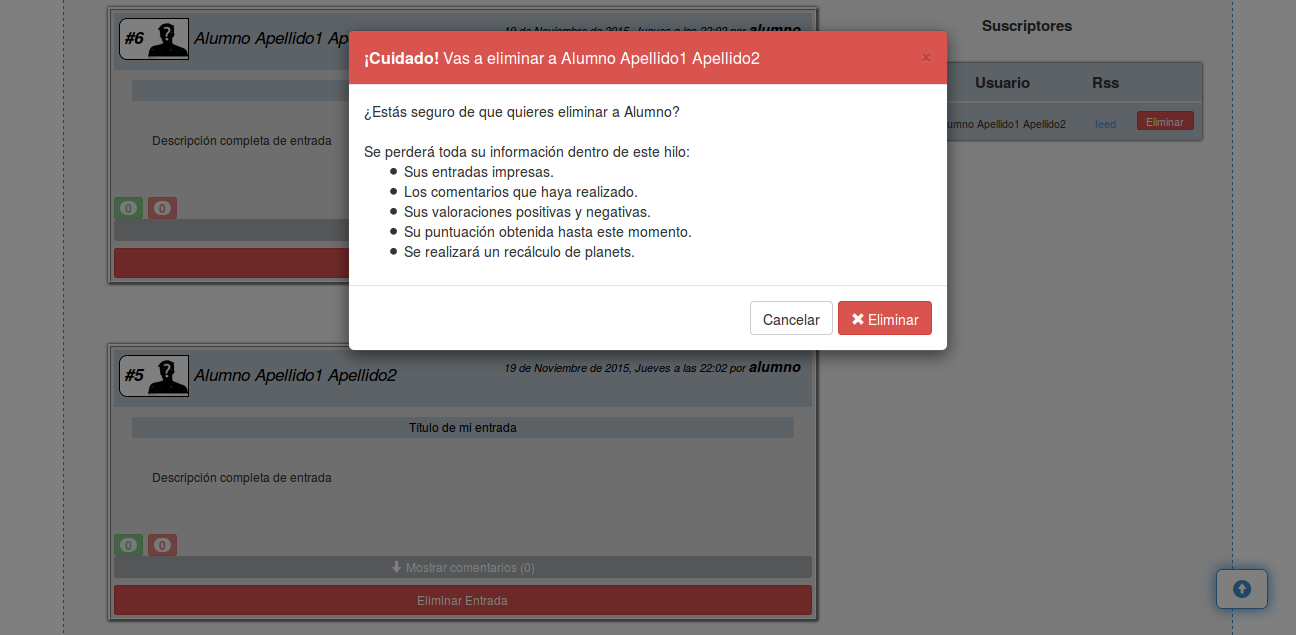
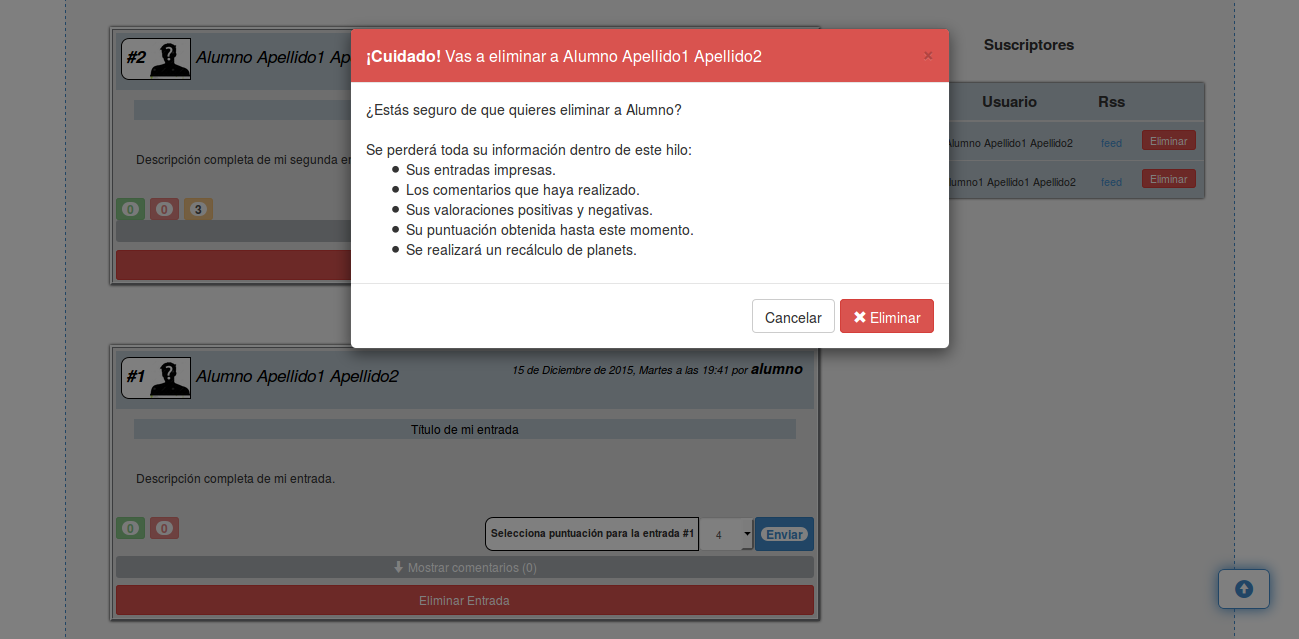
manual de usuario y bibliografía

diff --git a/memoria.tex b/memoria.tex
@@ -625,9 +625,10 @@ Cada modelo se convierte en una tabla en la base de datos. Los modelos definidos
   \textit{UrlBlog} guarda la url del blog de usuario, \textit{TotalUp} guarda el n\'umero total de valoraciones positivas que recopila la entrada, 
   \textit{TotalDown} guarda el n\'umero total de valoraciones negativas que recopila la entrada, \textit{Total} guarda la puntuaci\'on que lleva hasta el
   momento la entrada teniendo en cuenta valoraciones positivas y valoraciones negativas \rule[1mm]{4mm}{0.1mm}esta puntuaci\'on se usa para imprimir en 
-  la secci\'on de entradas m\'as valoradas\rule[1mm]{4mm}{0.1mm} y \textit{TotalComentarios} cuenta el total de comentarios que contiene la entrada 
-  \rule[1mm]{4mm}{0.1mm}este entero se mostrar\'a entre par\'entesis al lado de ''Mostrar comentarios''\rule[1mm]{4mm}{0.1mm}.
-  \item {\bfseries Comentario}: El modelo \texttt{Comentario} simula un comentario correspondiente a una entrada. Sus atributos son: \textit{Descripcion}
+  la secci\'on de entradas m\'as valoradas\rule[1mm]{4mm}{0.1mm}, \textit{TotalComentarios} cuenta el total de comentarios que contiene la entrada 
+  \rule[1mm]{4mm}{0.1mm}este entero se mostrar\'a entre par\'entesis al lado de ''Mostrar comentarios''\rule[1mm]{4mm}{0.1mm} y \textit{PuntuacionTutor}
+  guarda la puntuaci\'on de la entrada recibida por el tutor.
+  \item {\bfseries Comentario}: El modelo \texttt{Comentario} simula un comentario correspondiente a una entrada. Sus atributos son: \textit{Descripci\'on}
   guarda el contenido del comentario, \textit{Fecha} se queda con la fecha en la que fue enviado dicho comentario y \textit{Username} salva el nick del 
   usuario que realiz\'o el comentario.
   \item {\bfseries Up}: El modelo \texttt{Up} representa una valoraci\'on positiva de una entrada determinada.
@@ -854,7 +855,7 @@ tras una previa petici\'on GET del cliente mediante el correspondiente recurso \
 A esta p\'agina solamente puede acceder un usuario que se haya registrado previamente en la aplicaci\'on, y adem\'as lo haya hecho como profesor.
 
 En la parte superior de la cabecera se encuentra la barra de navegaci\'on con dos enlaces. \texttt{Mis hilos} hace referencia a la misma url de la 
-p\'agina servida, por lo que la recargar\'a, y \texttt{Desconectar} para el cierre de la sesi\'on (Secci\'on~\ref{sec:cierresesion}). En la parte inferior 
+p\'agina servida, por lo que la recargar\'a, \texttt{Resetear contrase\~na} hace referencia a la url de cambio de contrase\~na y \texttt{Desconectar} para el cierre de la sesi\'on (Secci\'on~\ref{sec:cierresesion}). En la parte inferior 
 de la cabecera se muestra una foto de perfil y un mensaje que informa a quien pertenece el espacio de la sesi\'on.
 
 Dentro del contenedor hay que destacar tres partes importantes:
@@ -880,6 +881,32 @@ Dentro del contenedor hay que destacar tres partes importantes:
 \end{figure}
 
 
+\subsubsection{Resetear contrase\~na} 
+\label{sec:resetpass}
+El documento HTML mostrado en la figura~\ref{fig:resetpass} es la p\'agina de modificaci\'on de contrase\~na. La p\'agina es servida 
+tras una previa petici\'on GET del cliente mediante el correspondiente recurso \footnote{Url correspondiente a la p\'agina de resetear contrase\~na: 
+\texttt{/planetablogs/tutores/resetear\_password/}}. La vista asociada a ese recurso es \texttt{resetear\_password}, la cual devuelve la plantilla 
+\texttt{resetear\_password.html} que crea el documento HTML de la respuesta.
+
+A esta p\'agina solamente puede acceder un usuario que se haya registrado previamente en la aplicaci\'on, y adem\'as lo haya hecho como profesor. 
+
+En la parte superior de la cabecera se encuentra la barra de navegaci\'on con tres enlaces. \texttt{Resetear contrase\~na} hace referencia a la misma 
+url de la p\'agina servida, por lo que la recargar\'a, \texttt{Mis hilos} hace referencia a la url del perfil del tutor y \texttt{Desconectar} para 
+el cierre de la sesi\'on (Secci\'on~\ref{sec:cierresesion}).
+
+En el cuerpo del documento existe un formulario en el que el alumno que haya perdido u olvidado su contrase\~na, puede introducir su nick de usuario y una
+nueva contrase\~na que sustituir\'a a la anterior.
+
+\begin{figure}
+  \centering
+  \includegraphics[width=17cm, keepaspectratio]{imagenes/ResetPass}
+  \caption{\textit{Modificar una contrase\~na desde el perfil de un tutor.}}
+  \label{fig:resetpass}
+\end{figure}
+
+
+
+
 \subsubsection{Hilos} 
 \label{sec:hilos}
 En la figura~\ref{fig:hilos} se muestran dos documentos HTML que recogen el contenido de un hilo. En la figura~\ref{fig:hilos}(a) se visualiza el interior
@@ -895,8 +922,10 @@ todas las plantillas con la siguiente url: {\scriptsize \texttt{/planetablogs/al
   \item {\bfseries \textit{Asignatura}}: Enlace que hace referencia a la misma url de la p\'agina servida, por lo que la recargar\'a (en este caso, 
   la asignatura se llama \texttt{DAT}).
   \item {\bfseries \textit{Buscar}}: Es un enlace que hace referencia a la url de b\'usqueda (Secci\'on~\ref{sec:buscar}).
-  \item {\bfseries \textit{Puntuaciones}}: Es una lista desplegable compuesta por dos enlaces. \textit{Ranking} hace referencia a la url donde se muestran 
-  todas las puntuaciones de los usuarios de un determinado hilo e \textit{Informaci\'on} hace referencia a la url que recoge las bases de esas puntuaciones.
+  \item {\bfseries \textit{Puntuaciones}}: Es una lista desplegable compuesta por tres enlaces. \textit{Ranking} hace referencia a la url donde se muestran 
+  todas las puntuaciones de los usuarios de un determinado hilo. \textit{Estad\'isticas} hace referencia a la url donde se muestran las estad\'isticas de 
+  cada usuario de un determinado hilo, tanto individuales como generales. \textit{Informaci\'on} hace referencia a la url que recoge las bases de esas 
+  puntuaciones.
   \item {\bfseries \textit{Desconectar}}: Enlace que hace referencia a la url servida para el cierre de la sesi\'on (Secci\'on~\ref{sec:cierresesion}).
 \end{itemize}
 Tambi\'en se expone, debajo de la barra de navegaci\'on, una imagen correspondiente al logo de la aplicaci\'on con su t\'itulo. Y en la parte derecha un 
@@ -928,9 +957,11 @@ usuarios suscritos a este hilo. Cabe destacar que la lista de entradas dentro de
 p\'agina dentro del hilo mostrar\'a en su contenedor cinco entradas como m\'aximo. El orden de la lista de entradas est\'a colocado de menor a mayor por 
 antiguedad, siendo las primeras entradas visibles las m\'as recientes.
 
-La respuesta de la vista tambi\'en contiene tres estructuras \textit{JSON}, todos los usuarios del modelo \texttt{User} (\textit{json\_usuarios}), 
-todas las valoraciones del modelo \texttt{Valoracion} pertenecientes a ese hilo (\textit{json\_valoracion}) y todos los alumnos del modelo \texttt{Alumno} 
-(\textit{json\_alumnos}).
+La respuesta de la vista tambi\'en contiene cinco estructuras \textit{JSON}, todos los usuarios del modelo \texttt{User} (\textit{json\_usuarios}), 
+todas las valoraciones del modelo \texttt{Valoracion} pertenecientes a ese hilo (\textit{json\_valoracion}), todos los alumnos del modelo \texttt{Alumno} 
+(\textit{json\_alumnos}), todas las asignaturas del modelo \texttt{Asignatura} (\textit{json\_asignaturas}), todos los profesores del modelo \texttt{Profesor} 
+(\textit{json\_profesores}).
+
 \begin{figure}
   \centering
   \includegraphics[width=17cm, keepaspectratio]{imagenes/HiloAlumnoEntradas}
@@ -956,13 +987,14 @@ usuarios suscritos a este hilo. Cabe destacar que la lista de entradas dentro de
 p\'agina dentro del hilo mostrar\'a en su contenedor cinco entradas como m\'aximo. El orden de la lista de entradas est\'a colocado de menor a mayor por 
 antiguedad, siendo las primeras entradas visibles las m\'as recientes.
 
-La respuesta de la vista tambi\'en contiene tres estructuras \textit{JSON}, todos los usuarios del modelo \texttt{User} (\textit{json\_usuarios}), 
-todas las valoraciones del modelo \texttt{Valoracion} pertenecientes a ese hilo (\textit{json\_valoracion}) y todos los alumnos del modelo \texttt{Alumno} 
-(\textit{json\_alumnos}).
+La respuesta de la vista tambi\'en contiene cinco estructuras \textit{JSON}, todos los usuarios del modelo \texttt{User} (\textit{json\_usuarios}), 
+todas las valoraciones del modelo \texttt{Valoracion} pertenecientes a ese hilo (\textit{json\_valoracion}), todos los alumnos del modelo \texttt{Alumno} 
+(\textit{json\_alumnos}), todas las asignaturas del modelo \texttt{Asignatura} (\textit{json\_asignaturas}), todos los profesores del modelo \texttt{Profesor} 
+(\textit{json\_profesores}).
 
 La principal diferencia con las p\'aginas de los hilos mostrados por parte de los alumnos, es que los tutores tienen el permiso de eliminar entradas de la 
-lista de entradas o usuarios de la lista de usuarios.
-En la figura~\ref{fig:hilotutor}
+lista de entradas o usuarios de la lista de usuarios, y adem\'as pueden puntuar de forma cuantitativa cada entrada.
+
 \begin{figure}
   \centering
   \includegraphics[width=17cm, keepaspectratio]{imagenes/HiloTutorEntradas}
@@ -1016,6 +1048,39 @@ Por lo que, la parte del documento HTML de la clase \textit{.container} agrupa t
   \includegraphics[width=17cm, keepaspectratio]{imagenes/HiloAlumnoRanking}
   \caption{\textit{P\'agina de ranking.}}
   \label{fig:ranking}
+\end{figure}
+
+
+\subsubsection{Estad\'isticas} 
+\label{sec:estadisticas}
+El documento HTML mostrado en la figura~\ref{fig:estadisticas} corresponde con la p\'agina de estad\'isticas de un determinado hilo. 
+La p\'agina es servida tras una previa petici\'on GET del cliente mediante el correspondiente recurso \footnote{Url correspondiente a la p\'agina de 
+ranking: \texttt{/planetablogs/tutores/hilo/\textit(IdAsignatura)/estadisticas/}}. La vista asociada a ese recurso es \texttt{estadisticas}, la cual 
+devuelve la plantilla \texttt{estadisticas.html} que crea el documento HTML de la respuesta.
+
+A esta p\'agina solamente puede acceder un usuario que se haya registrado previamente en la aplicaci\'on y que est\'e suscrito a la
+correspondiente asignatura de inter\'es.
+
+La cabecera re\'une todos los \'items de la barra de navegaci\'on explicada en la secci\'on~\ref{sec:hilos}. 
+
+La vista \texttt{estadisticas} recibe como par\'ametro el Id del hilo, y mediante ese Id procesa la petici\'on obteniendo la asignatura, la lista 
+de entradas asociadas a esa asignatura y una lista de listas que recoge informaci\'on de cada alumno (datos personales, total de entradas, total de up 
+recibidos, total de down recibidos, total up enviados, total down enviados, total comentarios recibidos y total comentarios enviados).
+
+Toda esa informaci\'on es enviada como respuesta a la solicitud en la plantilla \texttt{estadisticas.html}. 
+
+Por lo que, la parte del documento HTML de la clase \textit{.container} agrupa todos los usuarioS de una asignatura en un acorde\'on (elemento 
+\textit{jQuery-ui}). Cada secci\'on del acorde\'on pertenece a un usuario y muestra dos tablas (elemento \texttt{<table>}): \textit{Estad\'isticas 
+generales del alumno} y \textit{Entradas del alumno}, con informaci\'on recopilada y organizada. 
+
+En la parte superior del cuerpo de la p\'agina, mediante \textit{radiobuttons} se da la opci\'on de elegir lo que queremos mostrar: S\'olo estad\'isticas 
+generales, s\'olo resumen de entradas o ambas.
+
+\begin{figure}
+  \centering
+  \includegraphics[width=17cm, keepaspectratio]{imagenes/HiloAlumnoEstadisticas}
+  \caption{\textit{P\'agina de ranking.}}
+  \label{fig:estadisticas}
 \end{figure}
 
 
@@ -1475,9 +1540,10 @@ redirigir\'a a la p\'agina de inicio de sesi\'on.
 \label{app:presentaciontutor}
 Despu\'es de haber realizado el registro de usuario como tutor y de introducir nombre de usuario y contrase\~na en la p\'agina de inicio, la sesi\'on 
 comienza con la presentaci\'on de tutor o perfil de tutor (figura~\ref{figura:tutor}). En la cabecera se ofrece la posibilidad de desconectar la sesi\'on (a la derecha, pulsando el 
-enlace ''Desconectar'' en rojo). S\'olo aparece una pesta\~na ''Mis hilos'', a la izquierda, la cual tiene la funci\'on de actualizar la p\'agina de perfil 
-de tutor. Tambi\'en se exhibe una foto del usuario y un t\'itulo con la expresi\'on \textit{Espacio de NOMBRE APELLIDO1 APELLIDO2} indicando de quien es el
-perfil.
+enlace ''Desconectar'' en rojo). Aparece una pesta\~na ''Mis hilos'' la cual tiene la funci\'on de actualizar la p\'agina de perfil 
+de tutor y tambi\'en otra pesta\~na ''Resetear contrase\~na'' la cual se encargar\'a de redirigir a una p\'agina formulario con la posibilidad de
+modificar la contrase\~na de cualquier usuario. Adem\'as se exhibe una foto del usuario y un t\'itulo con la expresi\'on 
+\textit{Espacio de NOMBRE APELLIDO1 APELLIDO2} indicando de quien es el perfil.
 
 \begin{figure}[htbp] 
   \centering
@@ -1618,6 +1684,18 @@ El usuario puede interactuar con una entrada (\ref{figura:hiloalumno1}) de diver
   \end{figure}
   
   Si ese comentario es eliminado, el usuario obtendr\'a una penalizaci\'on de tres \textit{planets}.
+  
+  \item {\bfseries Puntuaci\'on del tutor}: La valoraci\'on del tutor se muestra a la derecha de los botones verde y rojo. En caso de que el tutor haya
+  calificado la entrada se podr\'a ver la puntuaci\'on dada en naranja (\ref{figura:hiloalumno7}(a)). En caso contrario, se obtendr\'a una calificaci\'on de 
+  ''Sin Calificar'' en azul (\ref{figura:hiloalumno7}(b)).
+  \begin{figure}
+    \centering
+    \subfigure[Entrada valorada por el tutor.]{\includegraphics[width=11cm]{imagenes/ValoracionTutorCalificada}}
+    \subfigure[Entrada no valorada por el tutor.]{\includegraphics[width=11cm]{imagenes/ValoracionTutorNoCalificada}}
+    \caption{\textit{Valoraciones del tutor en entradas.}}
+    \label{figura:hiloalumno7}
+  \end{figure}
+  
   \item {\bfseries Ojear blog}: En una entrada existen dos enlaces que redirigir\'an directamente al blog del alumno donde se ubican todas sus entradas 
   fuera de la aplicaci\'on. Los dos enlaces aparecen en forma de ''Nombre y apellidos'' y ''Nick'' (al lado de la fecha, en negrita).
   
@@ -1653,8 +1731,8 @@ cada valoraci\'on negativa. Se calcula el total de la suma y se plasman las diez
 
 En la figura~\ref{figura:hiloalumno3} se muestra la secci\'on donde encajan las diez entradas seleccionadas. Cada una se rellena con el n\'umero de 
 posici\'on que ocupa, su identificador, su t\'itulo, la persona que lo escribi\'o, su fecha, las valoraciones positivas y negativas (en color verde y rojo,
-respectivamente), y por \'ultimo su n\'umero total de \textit{planets}. Para obtener el n\'umero total de planets es necesario pinchar encima de cada 
-entrada (al mantener el rat\'on encima un instante sale un mensaje informativo).
+respectivamente), y por \'ultimo su n\'umero total de \textit{planets}. Son enlaces que al pinchar encima de cada entrada te lleva a la p\'agina del post 
+correspondiente.
 \begin{figure}[htbp] 
   \centering
   \Ovalbox{\includegraphics[width=17cm, keepaspectratio]{imagenes/HiloAlumnoEntradasValoradas}}
@@ -1691,7 +1769,7 @@ determinada altura. Si se pulsa sobre ella, el scroll asciende autom\'aticamente
 \section{Hilo de profesor}
 Se conservan las mismas funciones que en la secci\'on~\ref{app:hiloalumno} (hilo de alumno) con algunos cambios en ''Entradas'' y en ''Usuarios 
 suscritos''. En la figura~\ref{figura:hiloprofesor} se observa como estos cambios se reducen simplemente a que un tutor tiene el permiso de eliminar 
-cualquier entrada y cualquier alumno de un determinado hilo.
+cualquier entrada, eliminar cualquier alumno de un determinado hilo y valorar cualquier entrada de forma cuantitativa.
 \begin{figure}[htbp] 
   \centering
   \Ovalbox{\includegraphics[width=17cm, keepaspectratio]{imagenes/HiloTutorEntradas}}
@@ -1710,6 +1788,16 @@ usuario de ese hilo o no. Ver figura~\ref{figura:hiloprofesor1}(b).
   \subfigure[Eliminar alumno.]{\includegraphics[width=11cm]{imagenes/HiloTutorEliminarAlumno}}
   \caption{\textit{Eliminaciones en hilo de tutor.}}
   \label{figura:hiloprofesor1}
+\end{figure}
+
+La valoraci\'on del tutor se realiza a trav\'es de la parte de la entrada vista en la figura~\ref{figura:hiloprofesor2}. Los posibles valores est\'an dentro
+de un rango con un l\'imite m\'aximo que es superior al valor de un ''UP'' y con un l\'imite m\'inimo que es inferior al valor de un ''DOWN''. El intervalo de
+\textit{planets} es [-2, -1, 1, 2, 3, 4]. Una vez seleccionado el valor, se env\'ia al pulsar sobre el bot\'on ''Enviar'' azul.
+\begin{figure}[htbp] 
+  \centering
+  \Ovalbox{\includegraphics[width=17cm, keepaspectratio]{imagenes/HiloTutorValoracionEntradas}}
+  \caption{Valoraci\'on de tutor en una determinada entrada.}
+  \label{figura:hiloprofesor2}
 \end{figure}
 
 \section{Opciones de men\'u en cabecera}
@@ -1750,6 +1838,27 @@ Si se despliega el men\'u ''Puntuaci\'on'' emergen dos opciones:
     \caption{\textit{Interacciones de usuario en la p\'agina de Ranking.}}
     \label{figura:ranking}
   \end{figure}
+  \item {\bfseries Estad\'isticas}: La figura~\ref{fig:estadisticas} de la secci\'on~\ref{sec:estadisticas} muestra la p\'agina al pulsar sobre el enlace de la pesta\~na 
+  ''Estad\'isticas''. La p\'agina es informativa. Da la opci\'on al usuario de elegir las estad\'isticas que quiere visualizar (\ref{figura:estadisticas}).
+  
+  \begin{figure}
+    \centering
+    \Ovalbox{\includegraphics[width=17cm, keepaspectratio]{imagenes/HiloAlumnoEstadisticasRB}}
+    \caption{Opciones de estad\'isticas.}
+    \label{figura:estadisticas}
+  \end{figure}
+  Cada pesta\~na del acorde\'on refleja la informaci\'on de un usuario. La informaci\'on que se visualice depende de las opciones que el usuario haya elegido.
+  En la figura~\ref{figura:estadisticas1} se puede observar las tres opciones posibles: S\'olo estad\'isticas generales (a), s\'olo resumen de entradas (b) o 
+  ambas (c).
+  \begin{figure}
+  \centering
+  \subfigure[Estad\'isticas generales.]{\includegraphics[width=11cm]{imagenes/HiloAlumnoEstadisticasGenerales}}
+  \subfigure[Resumen de entradas.]{\includegraphics[width=11cm]{imagenes/HiloAlumnoEstadisticasEntradas}}
+  \subfigure[Ambas opciones anteriores.]{\includegraphics[width=11cm]{imagenes/HiloAlumnoEstadisticasAmbas}}
+  \caption{\textit{Visualizaci\'on de opciones estad\'isticas.}}
+  \label{figura:estadisticas1}
+\end{figure}
+
   \item {\bfseries Informaci\'on}: La figura~\ref{fig:informacionpuntuaciones} de la secci\'on~\ref{sec:informacionpuntuaciones} muestra la p\'agina al 
   presionar el enlace de la pesta\~na ''Informaci\'on''. La p\'agina es plenamente informativa. Crea unas bases de juego muy importantes para que el usuario
   tenga noci\'on del sistema de puntuaciones. Tambi\'en se muestra una tabla con el rango de puntuaciones que pertenece a cada nivel. Si se pasa el rat\'on
